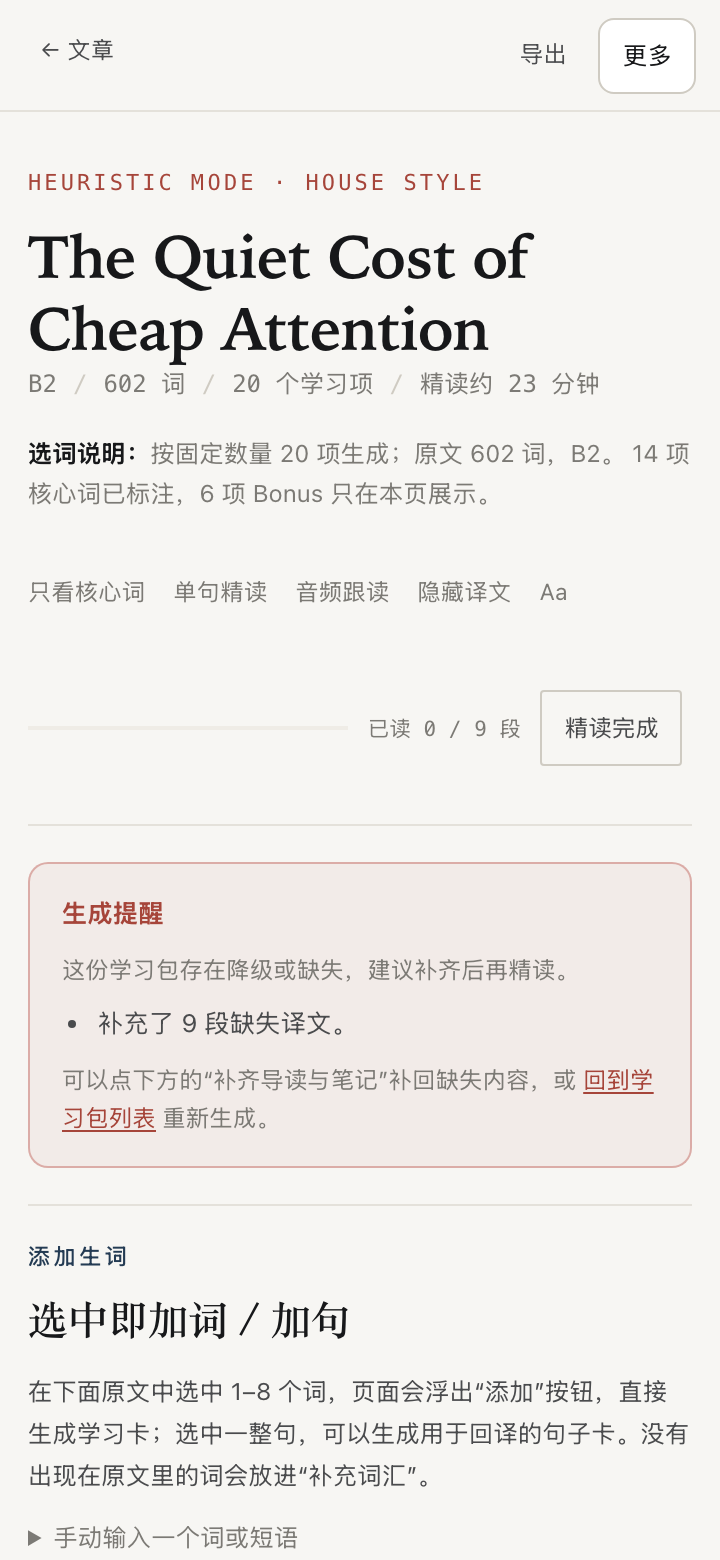
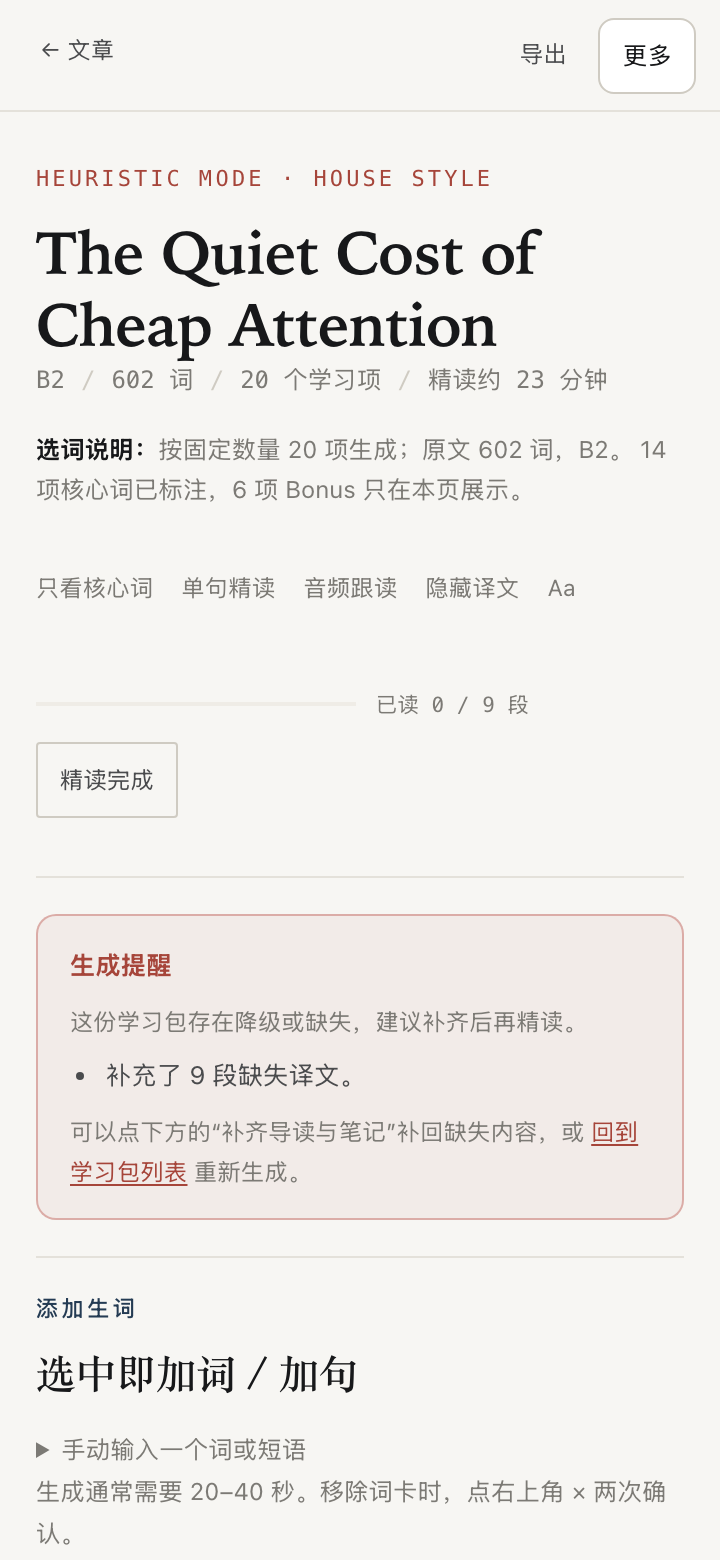
fix: keep the reader brand until 380px

diff --git a/src/pack/html.ts b/src/pack/html.ts
@@ -1598,7 +1598,7 @@ ${exportMode ? '' : themeBootScript()}
     .topbar-right { gap: 5px; }
     .topbar-right > .topbar-action { display: none; }
     .topbar-action { min-height: 38px; padding: 6px 10px; border-radius: 8px; touch-action: manipulation; }
-    @media (max-width: 400px) {
+    @media (max-width: 380px) {
       .topbar-left .brand { display: none; }
       /* Back link keeps the context; the pack title is right below anyway. */
       .topbar-left { flex: 0 0 auto; }
